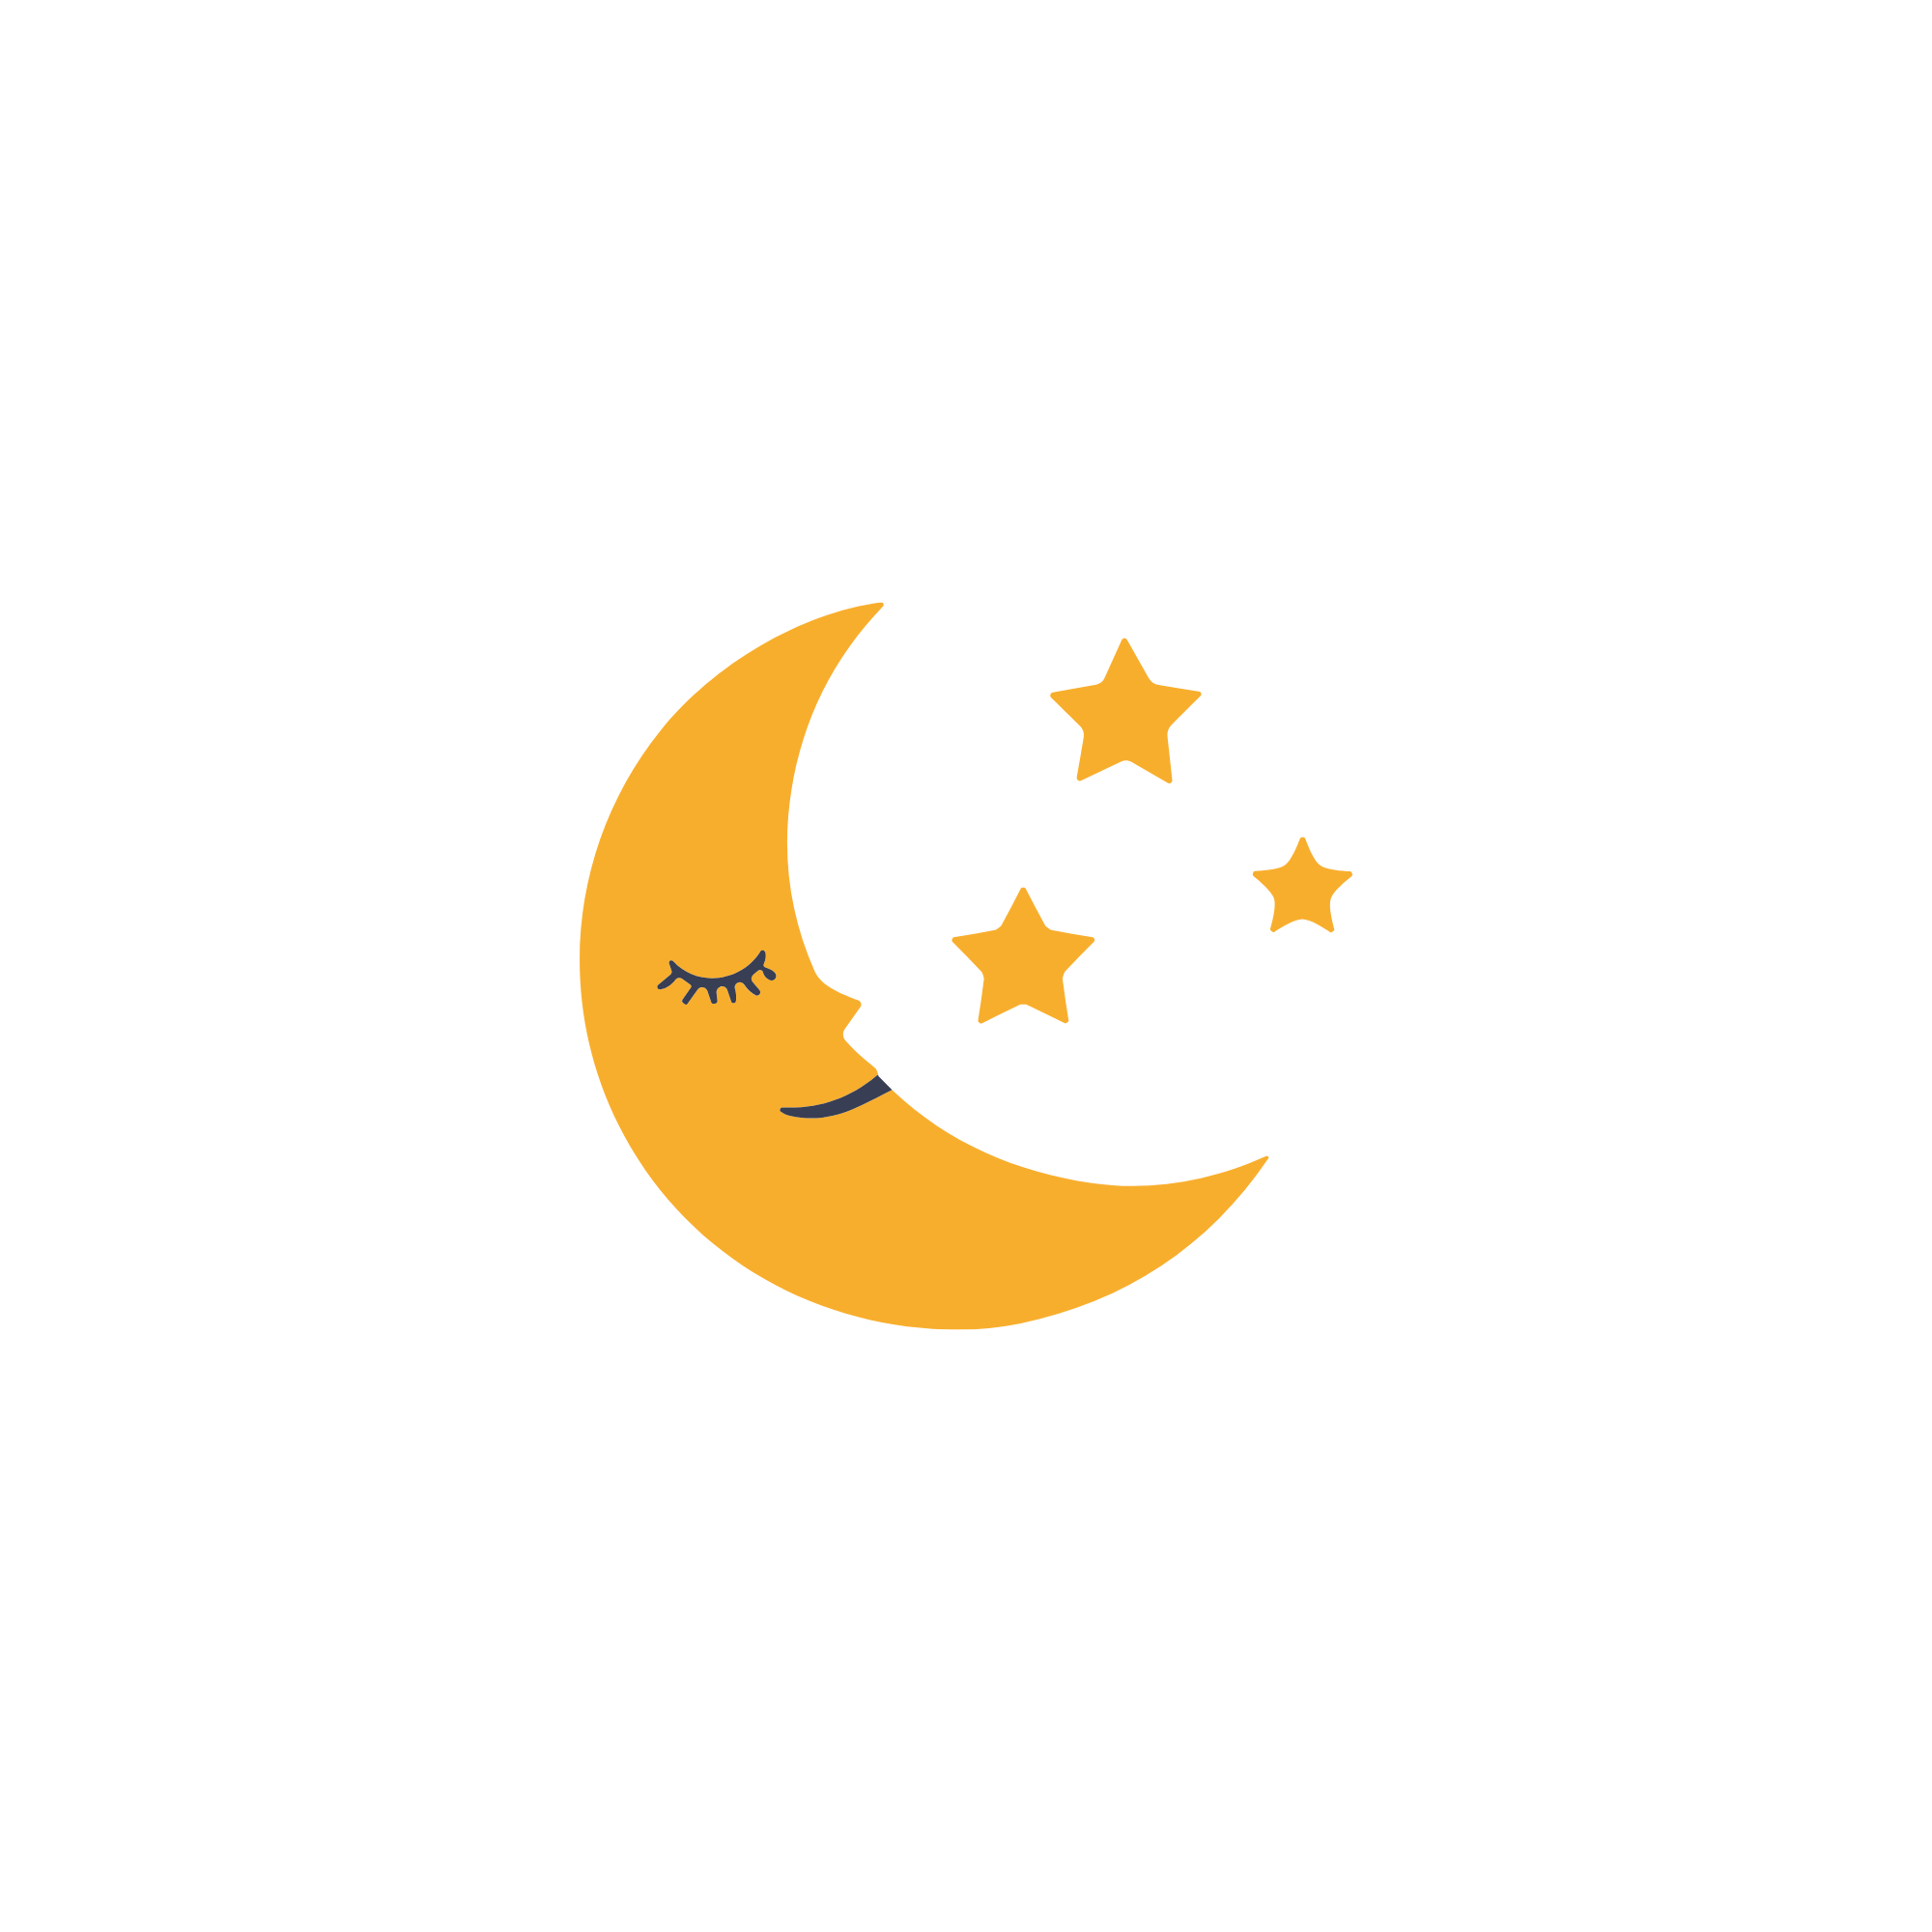
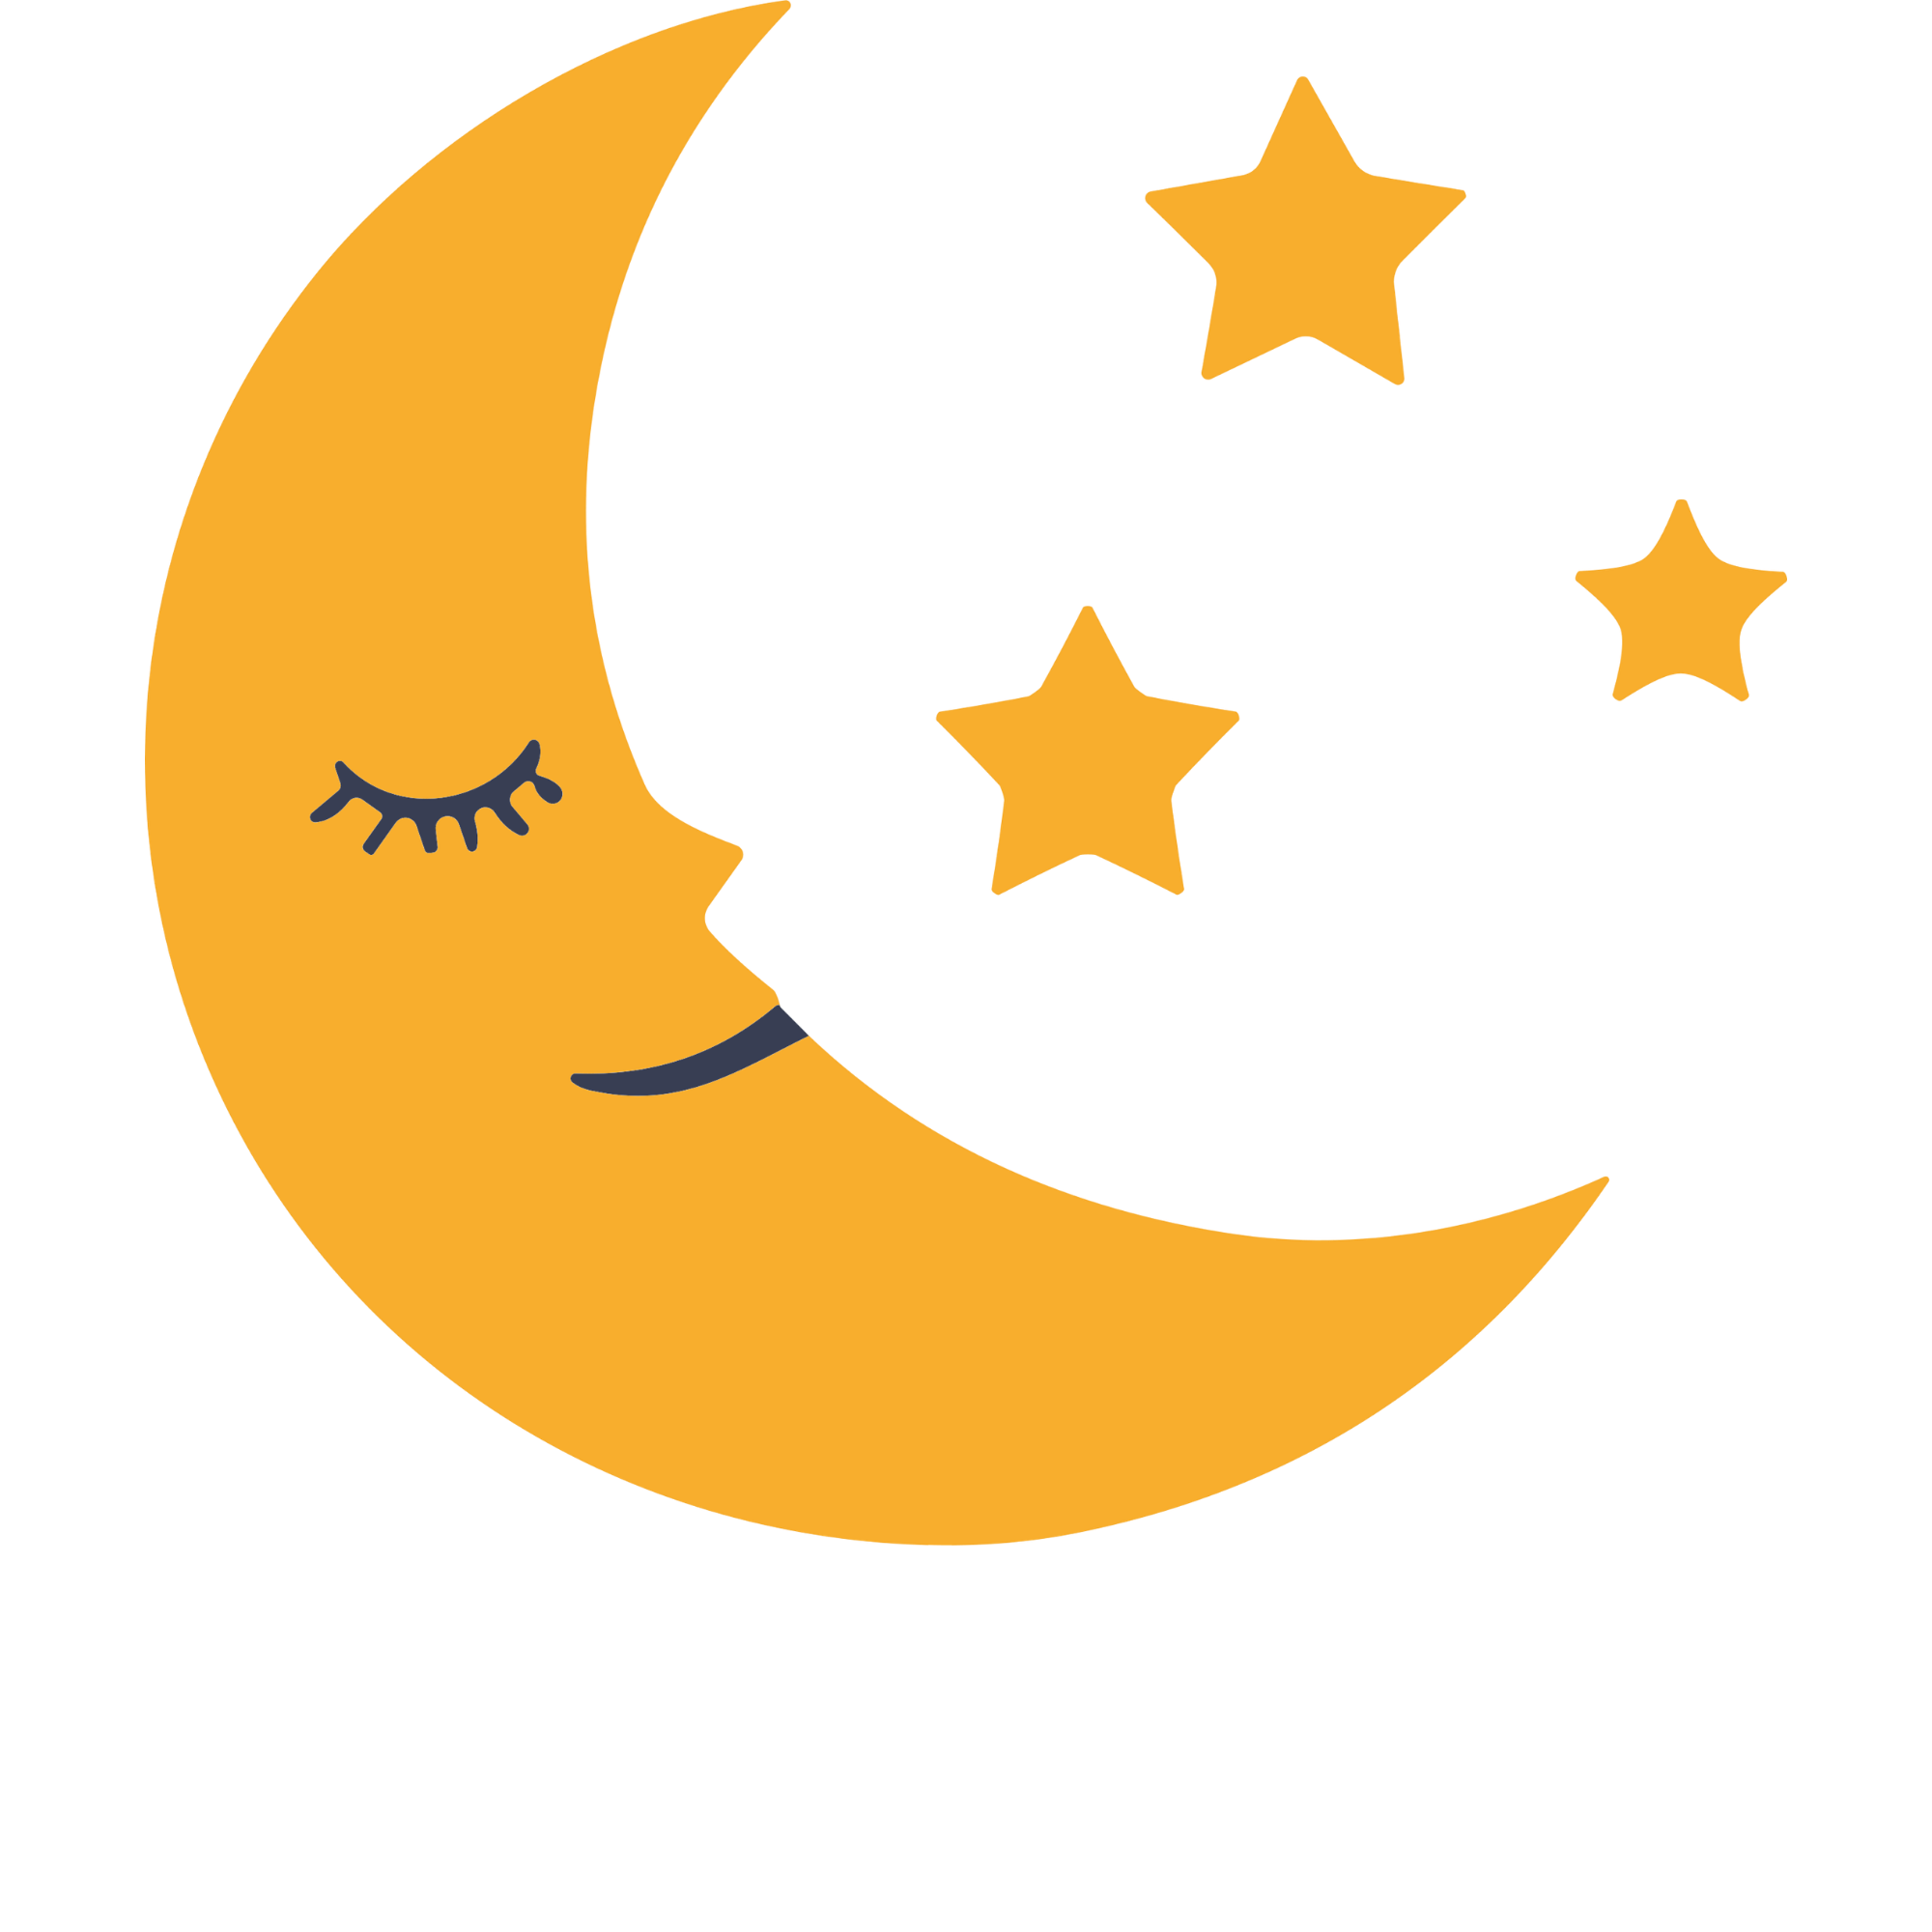
Komplett sovn.tsx med alle fikser

diff --git a/app/components/sovn/sovn.tsx b/app/components/sovn/sovn.tsx
@@ -18,10 +18,6 @@ const SIGNALER = [
   { id: 'hodet', label: 'Vendte hodet bort' },
   { id: 'kranglete', label: 'Ble kranglete' },
   { id: 'interesse', label: 'Mistet interesse' },
-  { id: 'ben', label: 'Trakk ben opp' },
-  { id: 'rygg', label: 'Bøyde ryggen' },
-  { id: 'luft', label: 'Mye luft' },
-  { id: 'mat', label: 'Knotete etter mat' },
 ];
 
 const TIPS_NATT = [
@@ -44,6 +40,10 @@ const GlitterOvergang = ({ onDone }: { onDone: () => void }) => {
         @keyframes glitterFall { 0%{transform:translateY(-20px) scale(0);opacity:0} 20%{opacity:1;transform:translateY(0) scale(1)} 100%{transform:translateY(110vh) rotate(360deg);opacity:0} }
         @keyframes bgDark { 0%{background:rgba(13,27,62,0)} 100%{background:rgba(13,27,62,0.97)} }
       `}</style>
+      <div style={{ position: 'absolute', inset: 0, animation: 'bgDark 1.5s ease forwards' }} />
+      {partikler.map(p => (
+        <div key={p.id} style={{ position: 'absolute', left: `${p.x}%`, top: `${p.y}%`, width: `${p.størrelse}px`, height: `${p.størrelse}px`, borderRadius: '50%', backgroundColor: p.farge, boxShadow: `0 0 ${p.størrelse * 2}px ${p.farge}`, animation: `glitterFall 2s ${p.forsinkelse}s ease-in forwards` }} />
+      ))}
     </div>
   );
 };
@@ -75,7 +75,7 @@ const TidslinjeIkon = ({ type, mørk = false }: { type: string; mørk?: boolean 
   );
   if (type === 'amming') return (
     <div style={{ width: size, height: size, borderRadius: '50%', backgroundColor: mørk ? '#3A2A1E' : '#F2E4D8', display: 'flex', alignItems: 'center', justifyContent: 'center' }}>
-      <img src="/tateflaske.png" alt="amming" style={{ width: '22px', height: '22px', objectFit: 'contain' }} />
+      <img src="/tateflaske.png" alt="amming" style={{ width: '22px', height: '22px', objectFit: 'contain', mixBlendMode: 'multiply' }} />
     </div>
   );
   if (type === 'oppvåkning') return (
@@ -121,7 +121,6 @@ export default function Sovn({ bruker }: Props) {
   const [valgteSignaler, setValgteSignaler] = useState<string[]>([]);
   const [tidslinje, setTidslinje] = useState<TidslinjeItem[]>([]);
   const [søvnkvalitet, setSøvnkvalitet] = useState('God');
-  const [tipIndex] = useState(Math.floor(Math.random() * TIPS_NATT.length));
   const [nyDato, setNyDato] = useState(dagensdato());
   const [nyType, setNyType] = useState<'lur' | 'natt'>('lur');
   const [nyStart, setNyStart] = useState('');
@@ -264,7 +263,8 @@ export default function Sovn({ bruker }: Props) {
   };
 
   const søvnmelding = () => {
-    if (minutter < 30) return 'Baby har akkurat sovnet 🌙 La natta senke seg rolig.';
+    if (minutter < 60) return 'Baby sover 🌙 Natta har så vidt begynt – la ro senke seg.';
+    if (valgteSignaler.length > 0) return `Baby viste ${valgteSignaler.length} trøtthetstegn før legging. Bra at du la merke til det! 🌿`;
     if (søvnkvalitet === 'Utmerket') return 'Fantastisk natt! ✨ Baby sover godt og sammenhengende.';
     if (søvnkvalitet === 'God') return 'Nydelig natt ✨ Baby sover godt med få oppvåkninger.';
     if (søvnkvalitet === 'Ok') return 'En grei natt 🌙 Litt uro, men baby sover.';
@@ -466,7 +466,7 @@ export default function Sovn({ bruker }: Props) {
           <div style={{ backgroundColor: farger.hvit, border: `1px solid ${farger.kremMørk}`, borderRadius: '16px', padding: '16px', marginBottom: '12px' }}>
             <div style={{ fontSize: '15px', fontFamily: 'var(--font-plus-jakarta)', color: farger.tekst, marginBottom: '4px' }}>Signaler før lur</div>
             <div style={{ fontSize: '12px', fontFamily: 'var(--font-inter)', color: farger.tekstLys, marginBottom: '14px' }}>Hva har babyen vist før luren?</div>
-            <div style={{ display: 'grid', gridTemplateColumns: 'repeat(5, 1fr)', gap: '8px', marginBottom: '12px' }}>
+            <div style={{ display: 'grid', gridTemplateColumns: 'repeat(3, 1fr)', gap: '8px', marginBottom: '12px' }}>
               {SIGNALER.map(signal => (
                 <button key={signal.id} onClick={() => toggleSignal(signal.id)} style={{ display: 'flex', flexDirection: 'column', alignItems: 'center', gap: '6px', padding: '10px 4px', borderRadius: '12px', border: valgteSignaler.includes(signal.id) ? `1.5px solid ${farger.grønn}` : `1px solid ${farger.kremMørk}`, backgroundColor: valgteSignaler.includes(signal.id) ? farger.grønnLys : farger.bakgrunn, cursor: 'pointer' }}>
                   <svg width="20" height="20" viewBox="0 0 20 20" fill="none">
@@ -533,6 +533,7 @@ export default function Sovn({ bruker }: Props) {
         <style>{`
           @keyframes moonRise { 0%{transform:translateY(140px);opacity:0} 100%{transform:translateY(0px);opacity:1} }
           @keyframes moonFloat { 0%,100%{transform:translateY(0px)} 50%{transform:translateY(-8px)} }
+          @keyframes twinkleStar { 0%,100%{opacity:0.15;transform:scale(0.8)} 50%{opacity:1;transform:scale(1.2)} }
           @keyframes sheetUp { 0%{transform:translateY(100%)} 100%{transform:translateY(0)} }
         `}</style>
 
@@ -557,7 +558,6 @@ export default function Sovn({ bruker }: Props) {
 
         <div style={{ position: 'relative', zIndex: 1, padding: '16px 24px 140px' }}>
 
-        
           {/* Header */}
           <div style={{ display: 'flex', justifyContent: 'space-between', alignItems: 'center', marginBottom: '16px' }}>
             <button onClick={() => setVisning('velg')} style={{ background: 'none', border: 'none', color: '#8A8FA8', cursor: 'pointer', fontSize: '24px' }}>‹</button>
@@ -570,9 +570,9 @@ export default function Sovn({ bruker }: Props) {
 
           {/* Måne + klokke */}
           <div style={{ position: 'relative', display: 'flex', alignItems: 'center', justifyContent: 'center', minHeight: '260px', marginBottom: '16px' }}>
-          <div style={{ position: 'absolute', left: '-20px', top: '-10px', animation: visManeAnimasjon ? 'moonRise 1.5s ease-out forwards' : 'moonFloat 5s ease-in-out infinite' }}>
-  <img src="/mane-natt.png" alt="måne" style={{ width: '180px', height: 'auto', filter: 'drop-shadow(0 0 30px rgba(232,200,122,0.5))' }} />
-</div>
+            <div style={{ position: 'absolute', left: '-20px', top: '-10px', animation: visManeAnimasjon ? 'moonRise 1.5s ease-out forwards' : 'moonFloat 5s ease-in-out infinite' }}>
+              <img src="/mane-natt.png" alt="måne" style={{ width: '180px', height: 'auto', filter: 'drop-shadow(0 0 30px rgba(232,200,122,0.5))' }} />
+            </div>
             <div style={{ position: 'relative', width: '200px', height: '200px', marginLeft: '60px' }}>
               <svg width="200" height="200" viewBox="0 0 200 200">
                 <defs>
@@ -618,32 +618,32 @@ export default function Sovn({ bruker }: Props) {
             </div>
           )}
 
-         {/* AI innsikt */}
-<div style={{ backgroundColor: 'rgba(255,255,255,0.05)', border: '1px solid rgba(255,255,255,0.08)', borderRadius: '16px', padding: '14px 16px', marginBottom: '16px' }}>
-  <div style={{ display: 'flex', alignItems: 'center', gap: '8px', marginBottom: '6px' }}>
-    <span style={{ fontSize: '14px' }}>✨</span>
-    <div style={{ fontSize: '13px', fontFamily: 'var(--font-plus-jakarta)', color: '#E8DDD0', fontWeight: '600' }}>Nattens innsikt</div>
-  </div>
-  <div style={{ fontSize: '13px', fontFamily: 'var(--font-inter)', color: '#C4A882', lineHeight: 1.6 }}>{søvnmelding()}</div>
-</div>
+          {/* AI innsikt */}
+          <div style={{ backgroundColor: 'rgba(255,255,255,0.05)', border: '1px solid rgba(255,255,255,0.08)', borderRadius: '16px', padding: '14px 16px', marginBottom: '16px' }}>
+            <div style={{ display: 'flex', alignItems: 'center', gap: '8px', marginBottom: '6px' }}>
+              <span style={{ fontSize: '14px' }}>✨</span>
+              <div style={{ fontSize: '13px', fontFamily: 'var(--font-plus-jakarta)', color: '#E8DDD0', fontWeight: '600' }}>Nattens innsikt</div>
+            </div>
+            <div style={{ fontSize: '13px', fontFamily: 'var(--font-inter)', color: '#C4A882', lineHeight: 1.6 }}>{søvnmelding()}</div>
+          </div>
 
           {/* Signaler i kveld */}
           <div style={{ backgroundColor: 'rgba(255,255,255,0.04)', border: '1px solid rgba(255,255,255,0.06)', borderRadius: '16px', padding: '14px 16px', marginBottom: '16px' }}>
-  <div style={{ display: 'flex', justifyContent: 'space-between', alignItems: 'center', marginBottom: '12px' }}>
-    <div style={{ fontSize: '13px', fontFamily: 'var(--font-plus-jakarta)', color: '#E8DDD0', fontWeight: '600' }}>Signaler i kveld</div>
-    <button style={{ fontSize: '11px', fontFamily: 'var(--font-inter)', color: '#8A8FA8', background: 'none', border: '1px solid rgba(255,255,255,0.1)', padding: '3px 10px', borderRadius: '20px', cursor: 'pointer' }}>Se alle</button>
-  </div>
-  <div style={{ display: 'grid', gridTemplateColumns: 'repeat(5, 1fr)', gap: '8px' }}>
-    {SIGNALER.map(signal => (
-      <button key={signal.id} onClick={() => toggleSignal(signal.id)} style={{ display: 'flex', flexDirection: 'column', alignItems: 'center', gap: '6px', padding: '10px 4px', borderRadius: '12px', border: valgteSignaler.includes(signal.id) ? '1.5px solid rgba(138,174,224,0.6)' : '1px solid rgba(255,255,255,0.08)', backgroundColor: valgteSignaler.includes(signal.id) ? 'rgba(138,174,224,0.15)' : 'rgba(255,255,255,0.04)', cursor: 'pointer' }}>
-        <svg width="18" height="18" viewBox="0 0 20 20" fill="none">
-          <path d="M10 16C10 16 3 11 3 6.5C3 4.5 4.5 3 6.5 3C7.8 3 9 3.7 10 5C11 3.7 12.2 3 13.5 3C15.5 3 17 4.5 17 6.5C17 11 10 16 10 16Z" fill={valgteSignaler.includes(signal.id) ? '#8AAEE0' : 'none'} stroke={valgteSignaler.includes(signal.id) ? '#8AAEE0' : 'rgba(255,255,255,0.3)'} strokeWidth="1.3"/>
-        </svg>
-        <div style={{ fontSize: '8px', fontFamily: 'var(--font-inter)', color: valgteSignaler.includes(signal.id) ? '#8AAEE0' : '#8A8FA8', textAlign: 'center', lineHeight: 1.2 }}>{signal.label}</div>
-      </button>
-    ))}
-  </div>
-</div>
+            <div style={{ display: 'flex', justifyContent: 'space-between', alignItems: 'center', marginBottom: '12px' }}>
+              <div style={{ fontSize: '13px', fontFamily: 'var(--font-plus-jakarta)', color: '#E8DDD0', fontWeight: '600' }}>Signaler i kveld</div>
+              <button style={{ fontSize: '11px', fontFamily: 'var(--font-inter)', color: '#8A8FA8', background: 'none', border: '1px solid rgba(255,255,255,0.1)', padding: '3px 10px', borderRadius: '20px', cursor: 'pointer' }}>Se alle</button>
+            </div>
+            <div style={{ display: 'grid', gridTemplateColumns: 'repeat(3, 1fr)', gap: '8px' }}>
+              {SIGNALER.map(signal => (
+                <button key={signal.id} onClick={() => toggleSignal(signal.id)} style={{ display: 'flex', flexDirection: 'column', alignItems: 'center', gap: '6px', padding: '10px 4px', borderRadius: '12px', border: valgteSignaler.includes(signal.id) ? '1.5px solid rgba(138,174,224,0.6)' : '1px solid rgba(255,255,255,0.08)', backgroundColor: valgteSignaler.includes(signal.id) ? 'rgba(138,174,224,0.15)' : 'rgba(255,255,255,0.04)', cursor: 'pointer' }}>
+                  <svg width="18" height="18" viewBox="0 0 20 20" fill="none">
+                    <path d="M10 16C10 16 3 11 3 6.5C3 4.5 4.5 3 6.5 3C7.8 3 9 3.7 10 5C11 3.7 12.2 3 13.5 3C15.5 3 17 4.5 17 6.5C17 11 10 16 10 16Z" fill={valgteSignaler.includes(signal.id) ? '#8AAEE0' : 'none'} stroke={valgteSignaler.includes(signal.id) ? '#8AAEE0' : 'rgba(255,255,255,0.3)'} strokeWidth="1.3"/>
+                  </svg>
+                  <div style={{ fontSize: '8px', fontFamily: 'var(--font-inter)', color: valgteSignaler.includes(signal.id) ? '#8AAEE0' : '#8A8FA8', textAlign: 'center', lineHeight: 1.2 }}>{signal.label}</div>
+                </button>
+              ))}
+            </div>
+          </div>
 
           {/* Nattens tidslinje */}
           {tidslinje.length > 0 && (
@@ -668,8 +668,8 @@ export default function Sovn({ bruker }: Props) {
             </div>
           )}
 
-    {/* Hurtigregistrering */}
-    <div style={{ backgroundColor: 'rgba(255,255,255,0.04)', border: '1px solid rgba(255,255,255,0.06)', borderRadius: '16px', padding: '14px 16px', marginBottom: '16px' }}>
+          {/* Hurtigregistrering */}
+          <div style={{ backgroundColor: 'rgba(255,255,255,0.04)', border: '1px solid rgba(255,255,255,0.06)', borderRadius: '16px', padding: '14px 16px', marginBottom: '16px' }}>
             <div style={{ fontSize: '13px', fontFamily: 'var(--font-plus-jakarta)', color: '#E8DDD0', fontWeight: '600', marginBottom: '12px' }}>Hurtigregistrering</div>
             <div style={{ display: 'grid', gridTemplateColumns: 'repeat(4, 1fr)', gap: '8px' }}>
               <button onClick={registrerOppvåkning} style={{ display: 'flex', flexDirection: 'column', alignItems: 'center', gap: '6px', padding: '12px 6px', borderRadius: '14px', border: '1px solid rgba(255,255,255,0.08)', backgroundColor: 'rgba(255,255,255,0.04)', cursor: 'pointer' }}>
@@ -686,17 +686,14 @@ export default function Sovn({ bruker }: Props) {
                 </svg>
                 <div style={{ fontSize: '10px', fontFamily: 'var(--font-inter)', color: '#8A8FA8' }}>Våknet</div>
               </button>
-
               <button onClick={() => {}} style={{ display: 'flex', flexDirection: 'column', alignItems: 'center', gap: '6px', padding: '12px 6px', borderRadius: '14px', border: '1px solid rgba(255,255,255,0.08)', backgroundColor: 'rgba(255,255,255,0.04)', cursor: 'pointer' }}>
-                <img src="/tateflaske.png" alt="amming" style={{ width: '24px', height: '24px', objectFit: 'contain', mixBlendMode: 'screen' }} />
+                <img src="/tateflaske.png" alt="amming" style={{ width: '26px', height: '26px', objectFit: 'contain' }} />
                 <div style={{ fontSize: '10px', fontFamily: 'var(--font-inter)', color: '#8A8FA8' }}>Ammet</div>
               </button>
-
               <button onClick={() => {}} style={{ display: 'flex', flexDirection: 'column', alignItems: 'center', gap: '6px', padding: '12px 6px', borderRadius: '14px', border: '1px solid rgba(255,255,255,0.08)', backgroundColor: 'rgba(255,255,255,0.04)', cursor: 'pointer' }}>
-                <img src="/bleie.png" alt="bleie" style={{ width: '24px', height: '24px', objectFit: 'contain', mixBlendMode: 'screen' }} />
+                <img src="/bleie.png" alt="bleie" style={{ width: '26px', height: '26px', objectFit: 'contain' }} />
                 <div style={{ fontSize: '10px', fontFamily: 'var(--font-inter)', color: '#8A8FA8' }}>Bleieskift</div>
               </button>
-
               <button onClick={() => {}} style={{ display: 'flex', flexDirection: 'column', alignItems: 'center', gap: '6px', padding: '12px 6px', borderRadius: '14px', border: '1px solid rgba(255,255,255,0.08)', backgroundColor: 'rgba(255,255,255,0.04)', cursor: 'pointer' }}>
                 <svg width="24" height="24" viewBox="0 0 24 24" fill="none">
                   <circle cx="12" cy="12" r="2" fill="#8A8FA8"/>
@@ -713,15 +710,15 @@ export default function Sovn({ bruker }: Props) {
             <div style={{ fontSize: '13px', fontFamily: 'var(--font-plus-jakarta)', color: '#E8DDD0', fontWeight: '600', marginBottom: '12px' }}>Skap ro</div>
             <div style={{ display: 'grid', gridTemplateColumns: 'repeat(3, 1fr)', gap: '10px' }}>
               <button onClick={() => setVisLydPanel(true)} style={{ display: 'flex', flexDirection: 'column', alignItems: 'center', gap: '8px', padding: '16px 8px', borderRadius: '16px', border: '1px solid rgba(255,255,255,0.08)', backgroundColor: 'rgba(255,255,255,0.06)', cursor: 'pointer' }}>
-                <img src="/lydbolge.jpg" alt="lyder" style={{ width: '36px', height: '36px', objectFit: 'contain', mixBlendMode: 'screen' }} />
+                <img src="/lydbolge.png" alt="lyder" style={{ width: '48px', height: '48px', objectFit: 'contain' }} />
                 <div style={{ fontSize: '11px', fontFamily: 'var(--font-inter)', color: '#C4A882' }}>Lyder</div>
               </button>
               <button onClick={() => setVisNattlys(true)} style={{ display: 'flex', flexDirection: 'column', alignItems: 'center', gap: '8px', padding: '16px 8px', borderRadius: '16px', border: '1px solid rgba(255,255,255,0.08)', backgroundColor: 'rgba(255,255,255,0.06)', cursor: 'pointer' }}>
-                <img src="/nattlampe.jpg" alt="nattlys" style={{ width: '36px', height: '36px', objectFit: 'contain', mixBlendMode: 'screen' }} />
+                <img src="/nattlampe.png" alt="nattlys" style={{ width: '48px', height: '48px', objectFit: 'contain' }} />
                 <div style={{ fontSize: '11px', fontFamily: 'var(--font-inter)', color: '#C4A882' }}>Nattlys</div>
               </button>
               <button onClick={() => setVisPust(true)} style={{ display: 'flex', flexDirection: 'column', alignItems: 'center', gap: '8px', padding: '16px 8px', borderRadius: '16px', border: '1px solid rgba(255,255,255,0.08)', backgroundColor: 'rgba(255,255,255,0.06)', cursor: 'pointer' }}>
-                <img src="/pusteboble.png" alt="pust" style={{ width: '36px', height: '36px', objectFit: 'contain', mixBlendMode: 'screen' }} />
+                <img src="/pusteboble.png" alt="pust" style={{ width: '48px', height: '48px', objectFit: 'contain' }} />
                 <div style={{ fontSize: '11px', fontFamily: 'var(--font-inter)', color: '#C4A882' }}>Pust med meg</div>
               </button>
             </div>